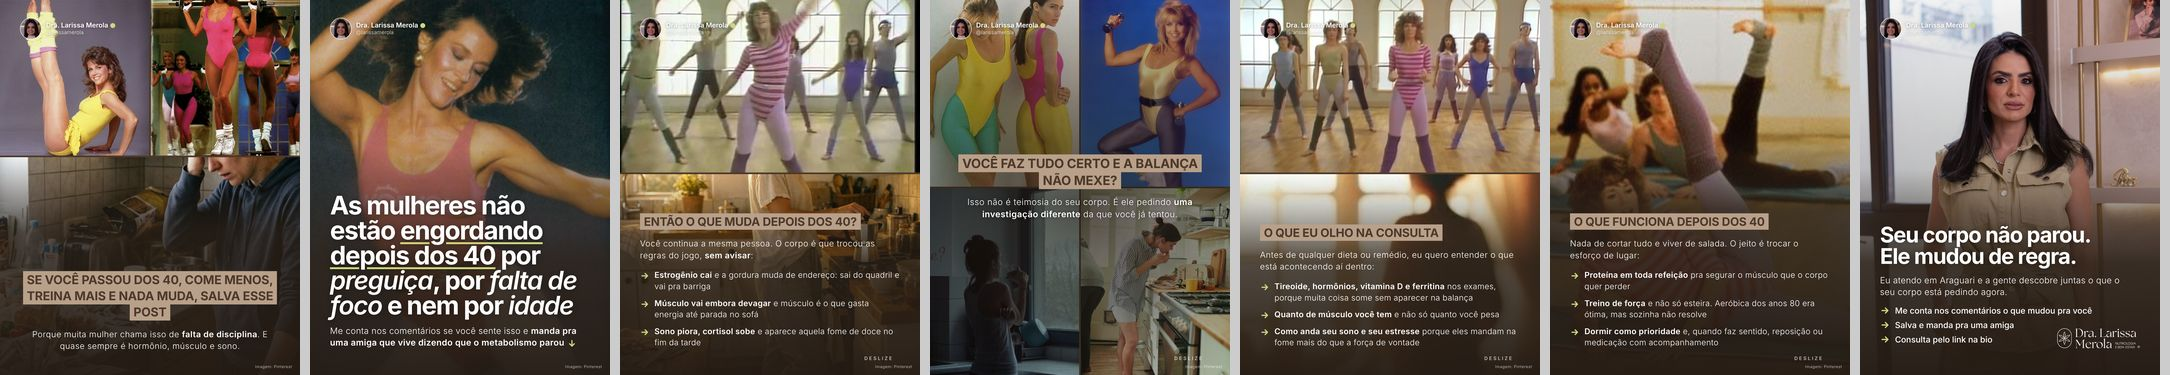
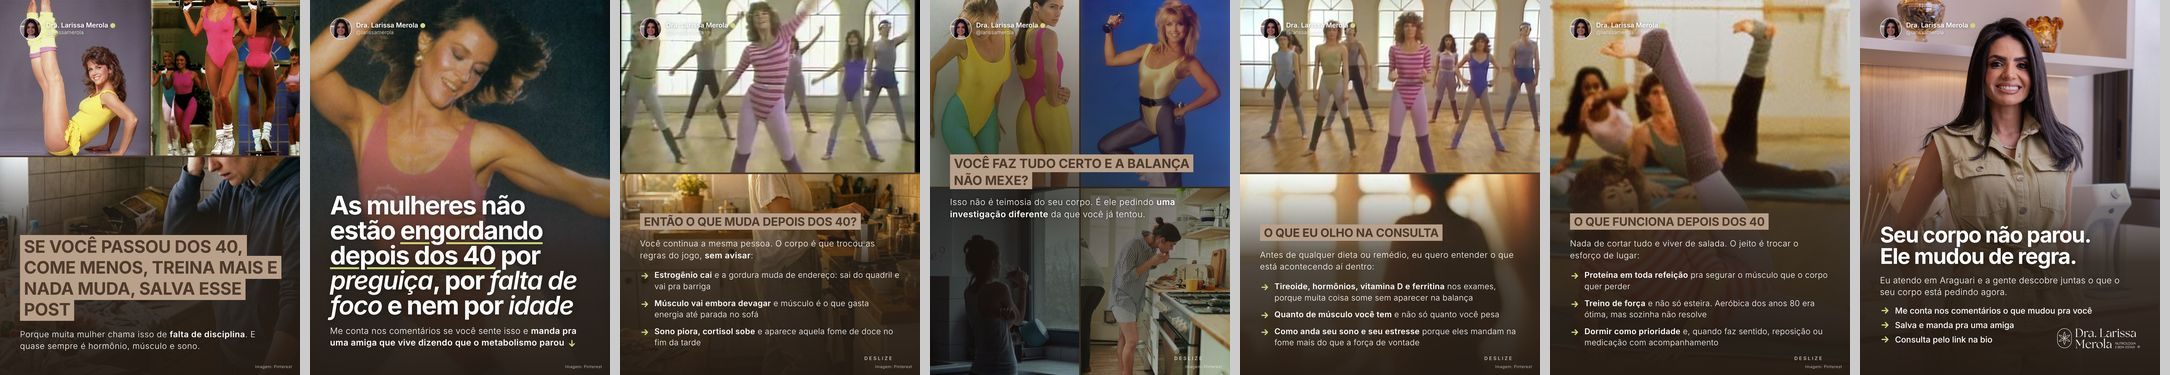
Tipo 2: tudo alinhado à esquerda, título da capa colagem maior; regra de alinhamento em REGRAS.md
Claude-Session: https://claude.ai/code/session_01WN8xztW6W2hHDkg5MavPGS

Changed region(s): [[0.8336, 0.0, 1.0, 0.6747], [0.0, 0.616, 0.1544, 0.9387], [0.4323, 0.4107, 0.5558, 0.5867]]

diff --git a/larissa-merola/capa/v2.css b/larissa-merola/capa/v2.css
@@ -178,8 +178,8 @@ p b, li b { font-weight: 600; }
 .capa-colagem .grade div:nth-child(3) { grid-column: 1 / -1; }
 .capa-colagem .grade img { width: 100%; height: 100%; object-fit: cover; }
 .capa-colagem .veu { background: linear-gradient(180deg, rgba(48,36,26,0) 0%, rgba(48,36,26,0) 42%, rgba(43,33,24,.80) 62%, rgba(36,27,20,.97) 100%); }
-.capa-colagem .bloco { bottom: 84px; gap: 30px; text-align: center; align-items: center; }
-.capa-colagem .rotulo-caixa { font-size: 44px; }
+.capa-colagem .bloco { bottom: 84px; gap: 30px; text-align: left; align-items: flex-start; }
+.capa-colagem .rotulo-caixa { font-size: 62px; line-height: 1.22; }
 .capa-colagem .texto { font-size: 30px; line-height: 1.4; font-weight: 300; letter-spacing: 0.03em; max-width: 880px; }
 .capa-colagem .texto b { font-weight: 600; }
 
@@ -216,10 +216,10 @@ p b, li b { font-weight: 600; }
 .mosaico .grade { position: absolute; inset: 0; z-index: 0; display: grid; grid-template-columns: 1fr 1fr; grid-template-rows: 1fr 1fr; gap: 6px; background: var(--marrom); }
 .mosaico .grade div { overflow: hidden; }
 .mosaico .grade img { width: 100%; height: 100%; object-fit: cover; }
-.mosaico .veu { background: radial-gradient(90% 60% at 50% 55%, rgba(36,27,20,.78) 0%, rgba(36,27,20,.55) 45%, rgba(36,27,20,.15) 100%); }
-.mosaico .bloco { top: 50%; bottom: auto; transform: translateY(-50%); align-items: center; text-align: center; gap: 26px; }
+.mosaico .veu { background: radial-gradient(95% 62% at 40% 55%, rgba(36,27,20,.8) 0%, rgba(36,27,20,.55) 48%, rgba(36,27,20,.15) 100%); }
+.mosaico .bloco { top: 50%; bottom: auto; transform: translateY(-50%); align-items: flex-start; text-align: left; gap: 26px; }
 .mosaico .rotulo-caixa { font-size: 46px; }
-.mosaico .texto { font-size: 31px; line-height: 1.4; font-weight: 300; letter-spacing: 0.03em; max-width: 860px; text-shadow: 0 1px 12px rgba(0,0,0,.5); }
+.mosaico .texto { font-size: 31px; line-height: 1.4; font-weight: 300; letter-spacing: 0.03em; max-width: 820px; text-shadow: 0 1px 12px rgba(0,0,0,.5); }
 .mosaico .texto b { font-weight: 600; }
 .mosaico .deslize { color: rgba(255,255,255,.8); bottom: 50px; }
 .tipo2 .credito { position: absolute; right: 28px; bottom: 22px; font-size: 14px; letter-spacing: 0.06em; color: rgba(255,255,255,.65); text-align: right; max-width: 700px; }

diff --git a/larissa-merola/REGRAS.md b/larissa-merola/REGRAS.md
@@ -29,6 +29,13 @@ e foto com véu marrom. Padrão de folhas do rodapé nas cores musgo + marrom + 
 Tons já listados em `capa/v2.css`: `--marrom #4D392A`, `--marrom-claro #B8A08A`, taupe `#8C7B6B`,
 papel quente `#EFE8DC`.
 
+## 2b. Alinhamento: um só por carrossel
+
+Regra do Victor (28/10): se um slide está alinhado à esquerda, todos os textos de todos os slides
+ficam à esquerda. Nada de capa centralizada com miolo à esquerda. No tipo 2 tudo é à esquerda,
+inclusive colagem e mosaico. No tipo 1, o que for centralizado (notícia, capa de ilustração) só
+convive com slides também centralizados.
+
 ## 3. Tom de voz: menos professora, mais conversa
 
 Feedback de 28/10: "muito professoral". O que muda no texto:
